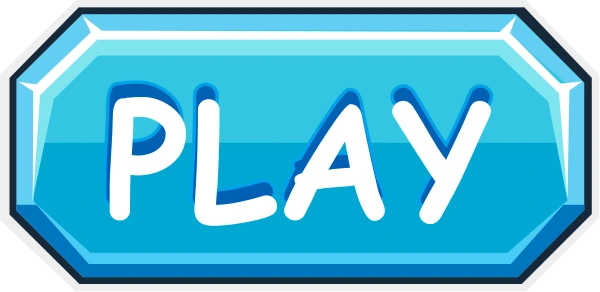
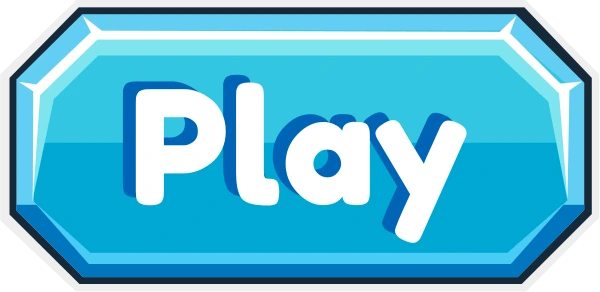
adding play button and remove vent glow also remove the nudge

Changed region(s): [[0.15, 0.2466, 0.84, 0.8322]]

diff --git a/index.html b/index.html
@@ -2552,9 +2552,10 @@
       btn._gsapInit = true;
       const img = btn.querySelector('img');
       if (!img) return;
+      const breath = btn.querySelector('.pb-inner') || img;   /* Play: octagon+label together */
 
       /* stronger breathing — a clearly noticeable pulse */
-      gsap.to(img, {
+      gsap.to(breath, {
         scale: 1.1, duration: PERIOD, repeat: -1, yoyo: true,
         ease: 'sine.inOut', transformOrigin: '50% 50%'
       });